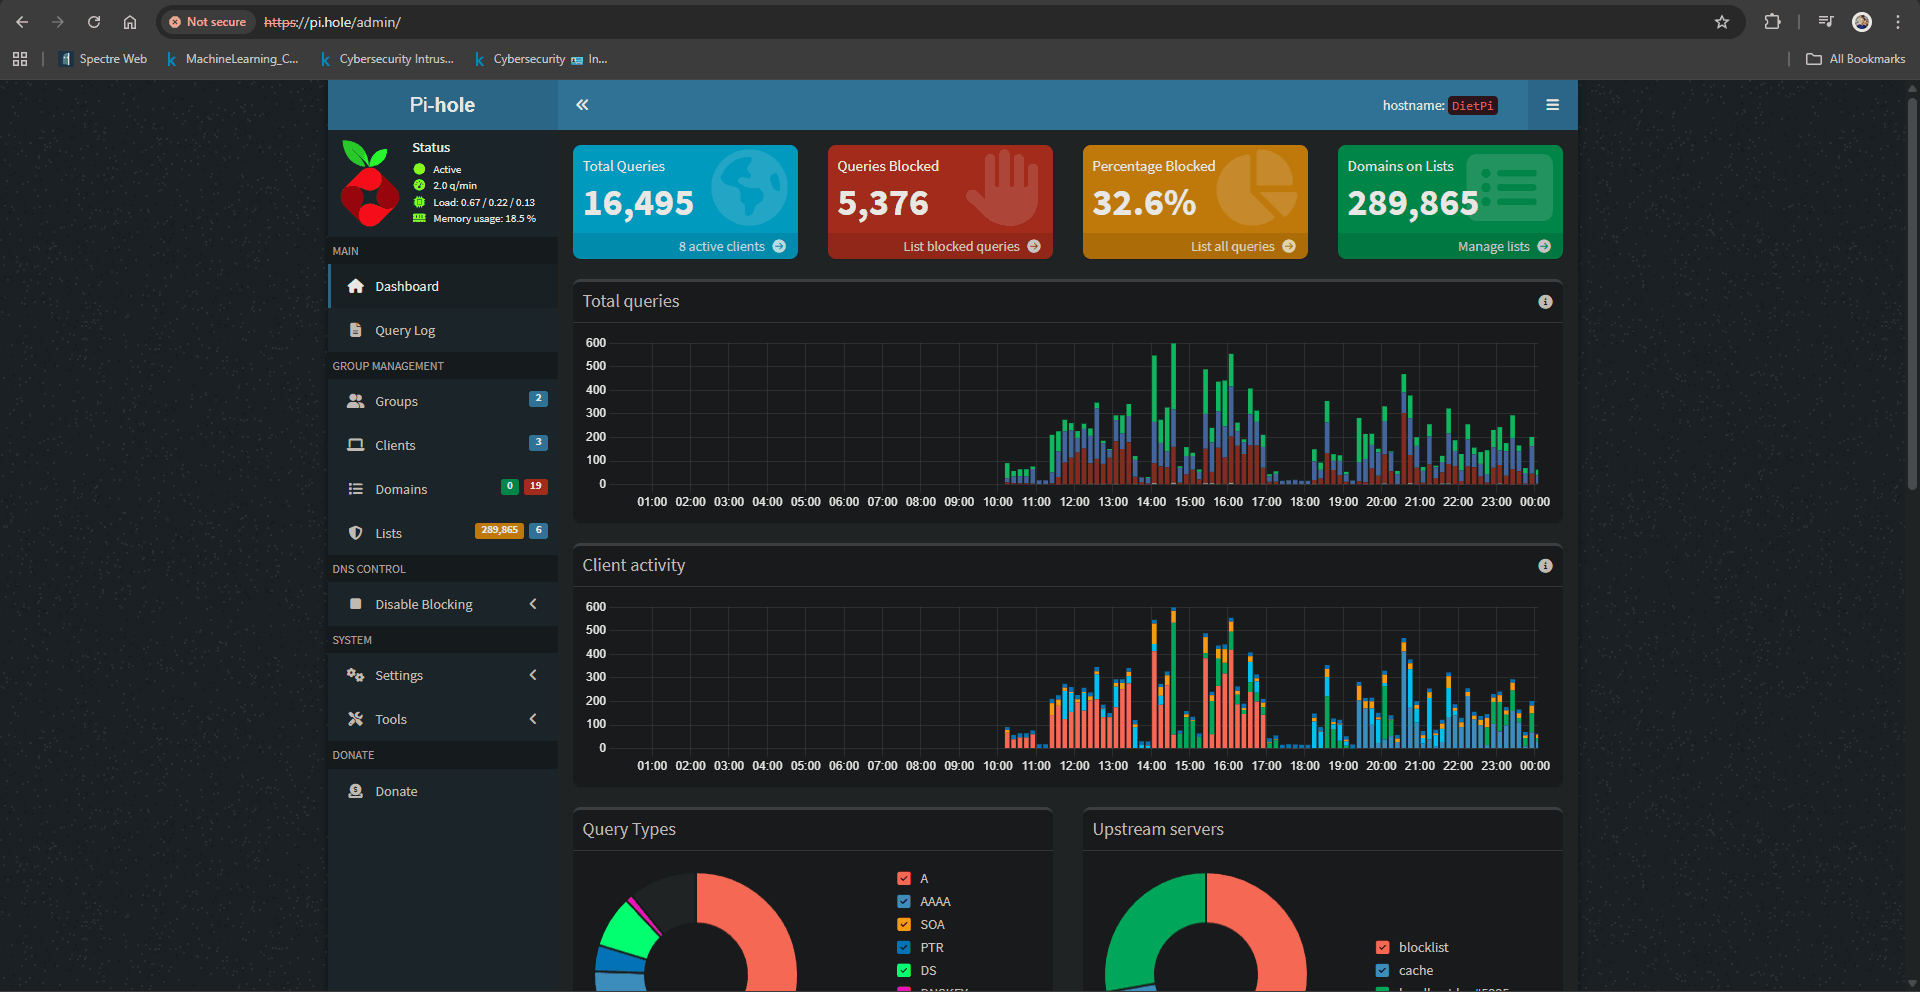
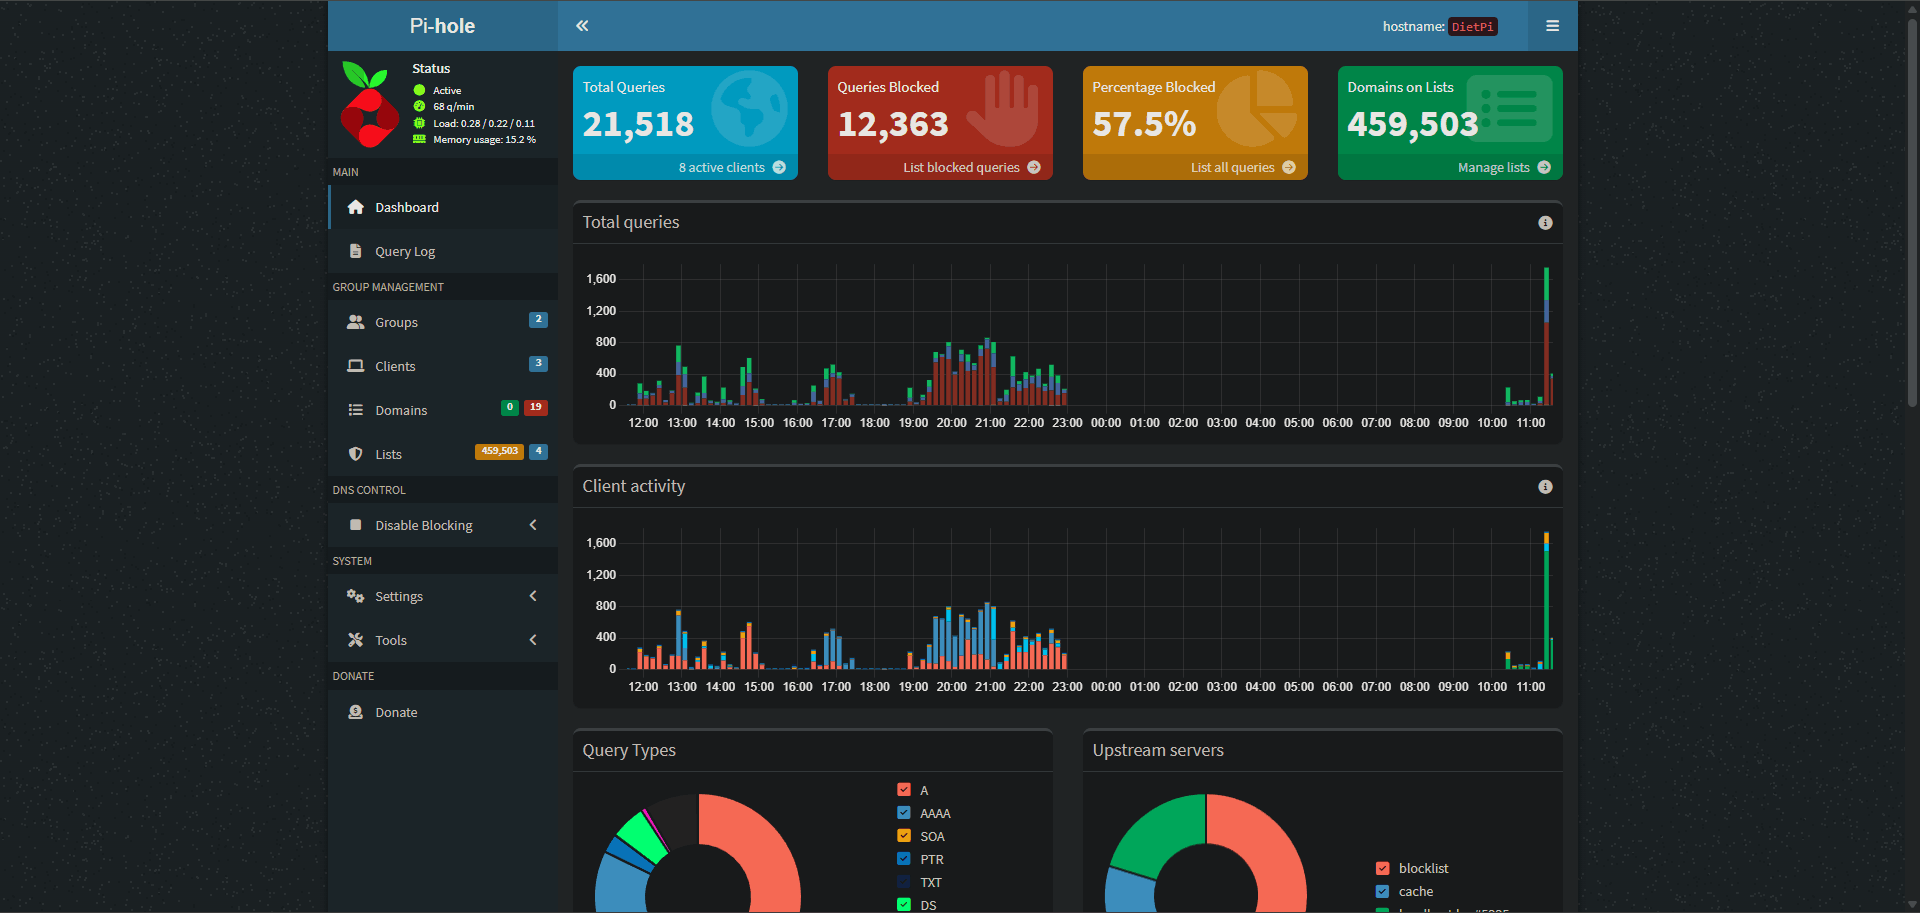
POST: Pi-hole

diff --git a/_posts/2026-03-01-pi-hole-i-totally-love-ads.md b/_posts/2026-03-01-pi-hole-i-totally-love-ads.md
@@ -12,6 +12,8 @@ Until Ad-blockers arrived!.
 
 In this post, we will set up [Pi-hole](https://pi-hole.net/), a DNS-level ad-blocker that blocks domains that serve ads and trackers, thereby enhancing network security.
 
+---
+
 ## Ingredient
 
 To cook we need the following,
@@ -22,7 +24,9 @@ To cook we need the following,
   + Cost ~300 INR
 - DietPi
 - microSDXC
-  + Took from sibling.
+  + Took from sibling (Wounded, but battle WON!).
+
+---
 
 ## Installation
 
@@ -67,6 +71,8 @@ Another version check to confirm Unbound installation.
     img_alt="Unbound version"
 %}
 
+---
+
 ## Customization
 
 We add Unbound as **Custom DNS servers** and uncheck any Upstream DNS Servers.
@@ -81,10 +87,8 @@ We add Unbound as **Custom DNS servers** and uncheck any Upstream DNS Servers.
 The default list is [StevenBlack](https://github.com/StevenBlack/hosts), I personally use the following list for more extensive coverage.
 
 ```
-https://someonewhocares.org/hosts/zero/
-https://pgl.yoyo.org/adservers/serverlist.php?hostformat=hosts;showintro=0
-https://hosts.anudeep.me/mirror/adservers.txt
 https://raw.githubusercontent.com/jerryn70/GoodbyeAds/master/Hosts/GoodbyeAds.txt
+https://cdn.jsdelivr.net/gh/hagezi/dns-blocklists@latest/adblock/pro.txt
 https://raw.githubusercontent.com/crazy-max/WindowsSpyBlocker/master/data/hosts/spy.txt
 ```
 
@@ -96,7 +100,7 @@ https://raw.githubusercontent.com/anudeepND/whitelist/master/domains/whitelist.t
 
 Since the list contains only static domains, it becomes insufficient for newly generated domains. Using regex enables us to dynamically address this limitation.
 
-I use the below Regex deny,
+I use the below Regex deny (*pihole-regex* and *no-google*),
 ```
 ^ad([sxv]?[0-9]*|system)[_.-]([^.[:space:]]+\.){1,}|[_.-]ad([sxv]?[0-9]*|system)[_.-]
 ^(.+[_.-])?adse?rv(er?|ice)?s?[0-9]*[_.-]
@@ -123,6 +127,8 @@ I use the below Regex deny,
 (.*\.|^)y(outube|timg)($|\..+)
 ```
 
+---
+
 ## Configuration
 
 For convenience, the router’s DNS server can be changed to the Pi-hole IP address so that every device connected to the router uses Pi-hole by default.
@@ -136,6 +142,8 @@ For convenience, the router’s DNS server can be changed to the Pi-hole IP addr
 
 If the router's DNS address cannot be changed, manually configure the DNS servers on each device.
 
+---
+
 ## Result
 
 The statistics for Pi-hole in the home network with the same set of lists and regex deny rules.
@@ -147,7 +155,7 @@ The statistics for Pi-hole in the home network with the same set of lists and re
     img_alt="Pi-hole stats"
 %}
 
-On average, nearly 5K out of 17K queries are **blocked**!.
+On average, nearly 12K out of 21K queries are **blocked**!.
 
 Additionally, Unbound’s DNS caching significantly improves response time and overall DNS performance.
 
